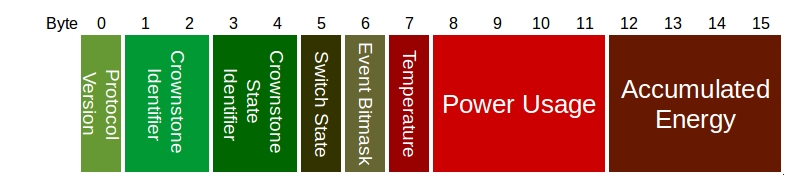
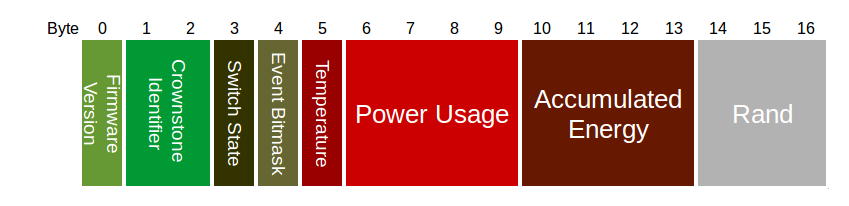
Updated protocol doc.

diff --git a/PROTOCOL.md b/PROTOCOL.md
@@ -1,4 +1,4 @@
-# Bluenet protocol v0.5.0
+# Bluenet protocol v0.5.1
 -------------------------
 
 # <a name="encryption"></a>Encryption
@@ -64,9 +64,9 @@ Type | Name | Length | Description
 --- | --- | --- | ---
 uint 8 | Packet nonce | 3 | First 3 bytes of nonce used in the encryption of this message.
 uint 8 | User level | 1 | 0: Admin, 1: User, 2: Guest
-Encrypted Payload | Encrypted Payload | N*16 | The encrypted payload of N blocks.
+[Encrypted Payload](#encrypted_payload) | Encrypted Payload | N*16 | The encrypted payload of N blocks.
 
-##### Encrypted payload
+##### <a name="encrypted_payload"></a>Encrypted payload
 
 ![Encrypted payload](docs/diagrams/encrypted-payload.png)
 
@@ -114,14 +114,14 @@ Type | Name | Length | Description
 --- | --- | --- | ---
 uint 8 | AD Length | 1 | Length of the Name AD Structure (0x0A)
 uint 8 | AD Type | 1 | Shortened Local Name (0x08)
-char []] | Name Bytes | 9 | The shortened name of this device.
+char [] | Name Bytes | 8 | The shortened name of this device.
 uint 8 | AD Length | 1 | Length of the Service Data AD Structure (0x13)
 uint 8 | AD Type | 1 | Service Data (0x16)
 uint 16 | Service UUID | 2 | Service UUID
-[Service data](#scan_response_servicedata_packet) | Service Data | 16 | Service data, state info.
+[Service data](#scan_response_servicedata_packet) | Service Data | 17 | Service data, state info.
 
 ### <a name="scan_response_servicedata_packet"></a>Scan response service data packet
-This packet contains the state info. If encryption is enabled, it will be encrypted using AES 128 ECB using the Guest key.
+This packet contains the state info. If encryption is enabled, the last 16 bytes will be encrypted using AES 128 ECB using the Guest key.
 
 ![Scan Response ServiceData](docs/diagrams/scan-response-service-data.png)
 
@@ -129,12 +129,12 @@ Type | Name | Length | Description
 --- | --- | --- | ---
 uint 8 | Protocol Version | 1 | Service data protocol version
 uint 16 | Crownstone ID | 2 | ID that identifies this Crownstone.
-uint 16 | Crownstone state ID | 2 | ID of the Crownstone of which the state is shown.
 uint 8 | [Switch state](#switch_state_packet) | 1 | The state of the switch.
 uint 8 | Event bitmask | 1 | Shows if the Crownstone has something new to tell.
 int 8 | Temperature | 1 | Chip temperature (°C)
 int 32 | Power usage | 4 | The power usage at this moment (mW).
 int 32 | Accumulated energy | 4 | The accumulated energy (kWh).
+uint 8[] | Rand | 3 | Random bytes.
 
 #### <a name="switch_state_packet"></a>Switch State Packet
 
@@ -143,8 +143,8 @@ the following layout
 
 ![Switch State Packet](docs/diagrams/switch_state_packet.png)
 
-Bit 7 is used for the Relay Flag, where 0 = OFF, 1 = ON
-Bits 6-0 are used for PWM, where 100 is full ON, 0 is OFF, dimmed in between
+Bit 7 is used for the relay flag, where 0 = OFF, 1 = ON.
+Bits 6-0 are used for PWM, where 100 is fully ON, 0 is OFF, dimmed in between.
 
 # Services
 When connected, the following services are available.
@@ -427,6 +427,8 @@ Note: On the State Read Characteristic, the OpCode is also set to distinguish be
 
 ### <a name="power_samples_packet"></a>Power samples packet
 
+![Power samples packet](docs/diagrams/power-samples-packet.png)
+
 Type | Name | Length | Description
 --- | --- | --- | ---
 uint 16   | numCurrentSamples     | 2                      | Number of current samples.
@@ -443,9 +445,9 @@ uint 32   | lastVoltageTimeStamp  | 4                      | Timestamp of last v
 int 8 []  | voltageTimeDiffs      | numVoltageTimeStamps-1 | Array of differences with previous timestamp.
 
 
-### <a name="power_curve_packet"></a>Power curve packet, Deprecated
+### <a name="power_curve_packet"></a>Power curve packet, deprecated
 
-![Power curve packet](docs/diagrams/power-packet.png)
+![Power curve packet](docs/diagrams/power-curve-packet.png)
 
 Type | Name | Length | Description
 --- | --- | --- | ---
